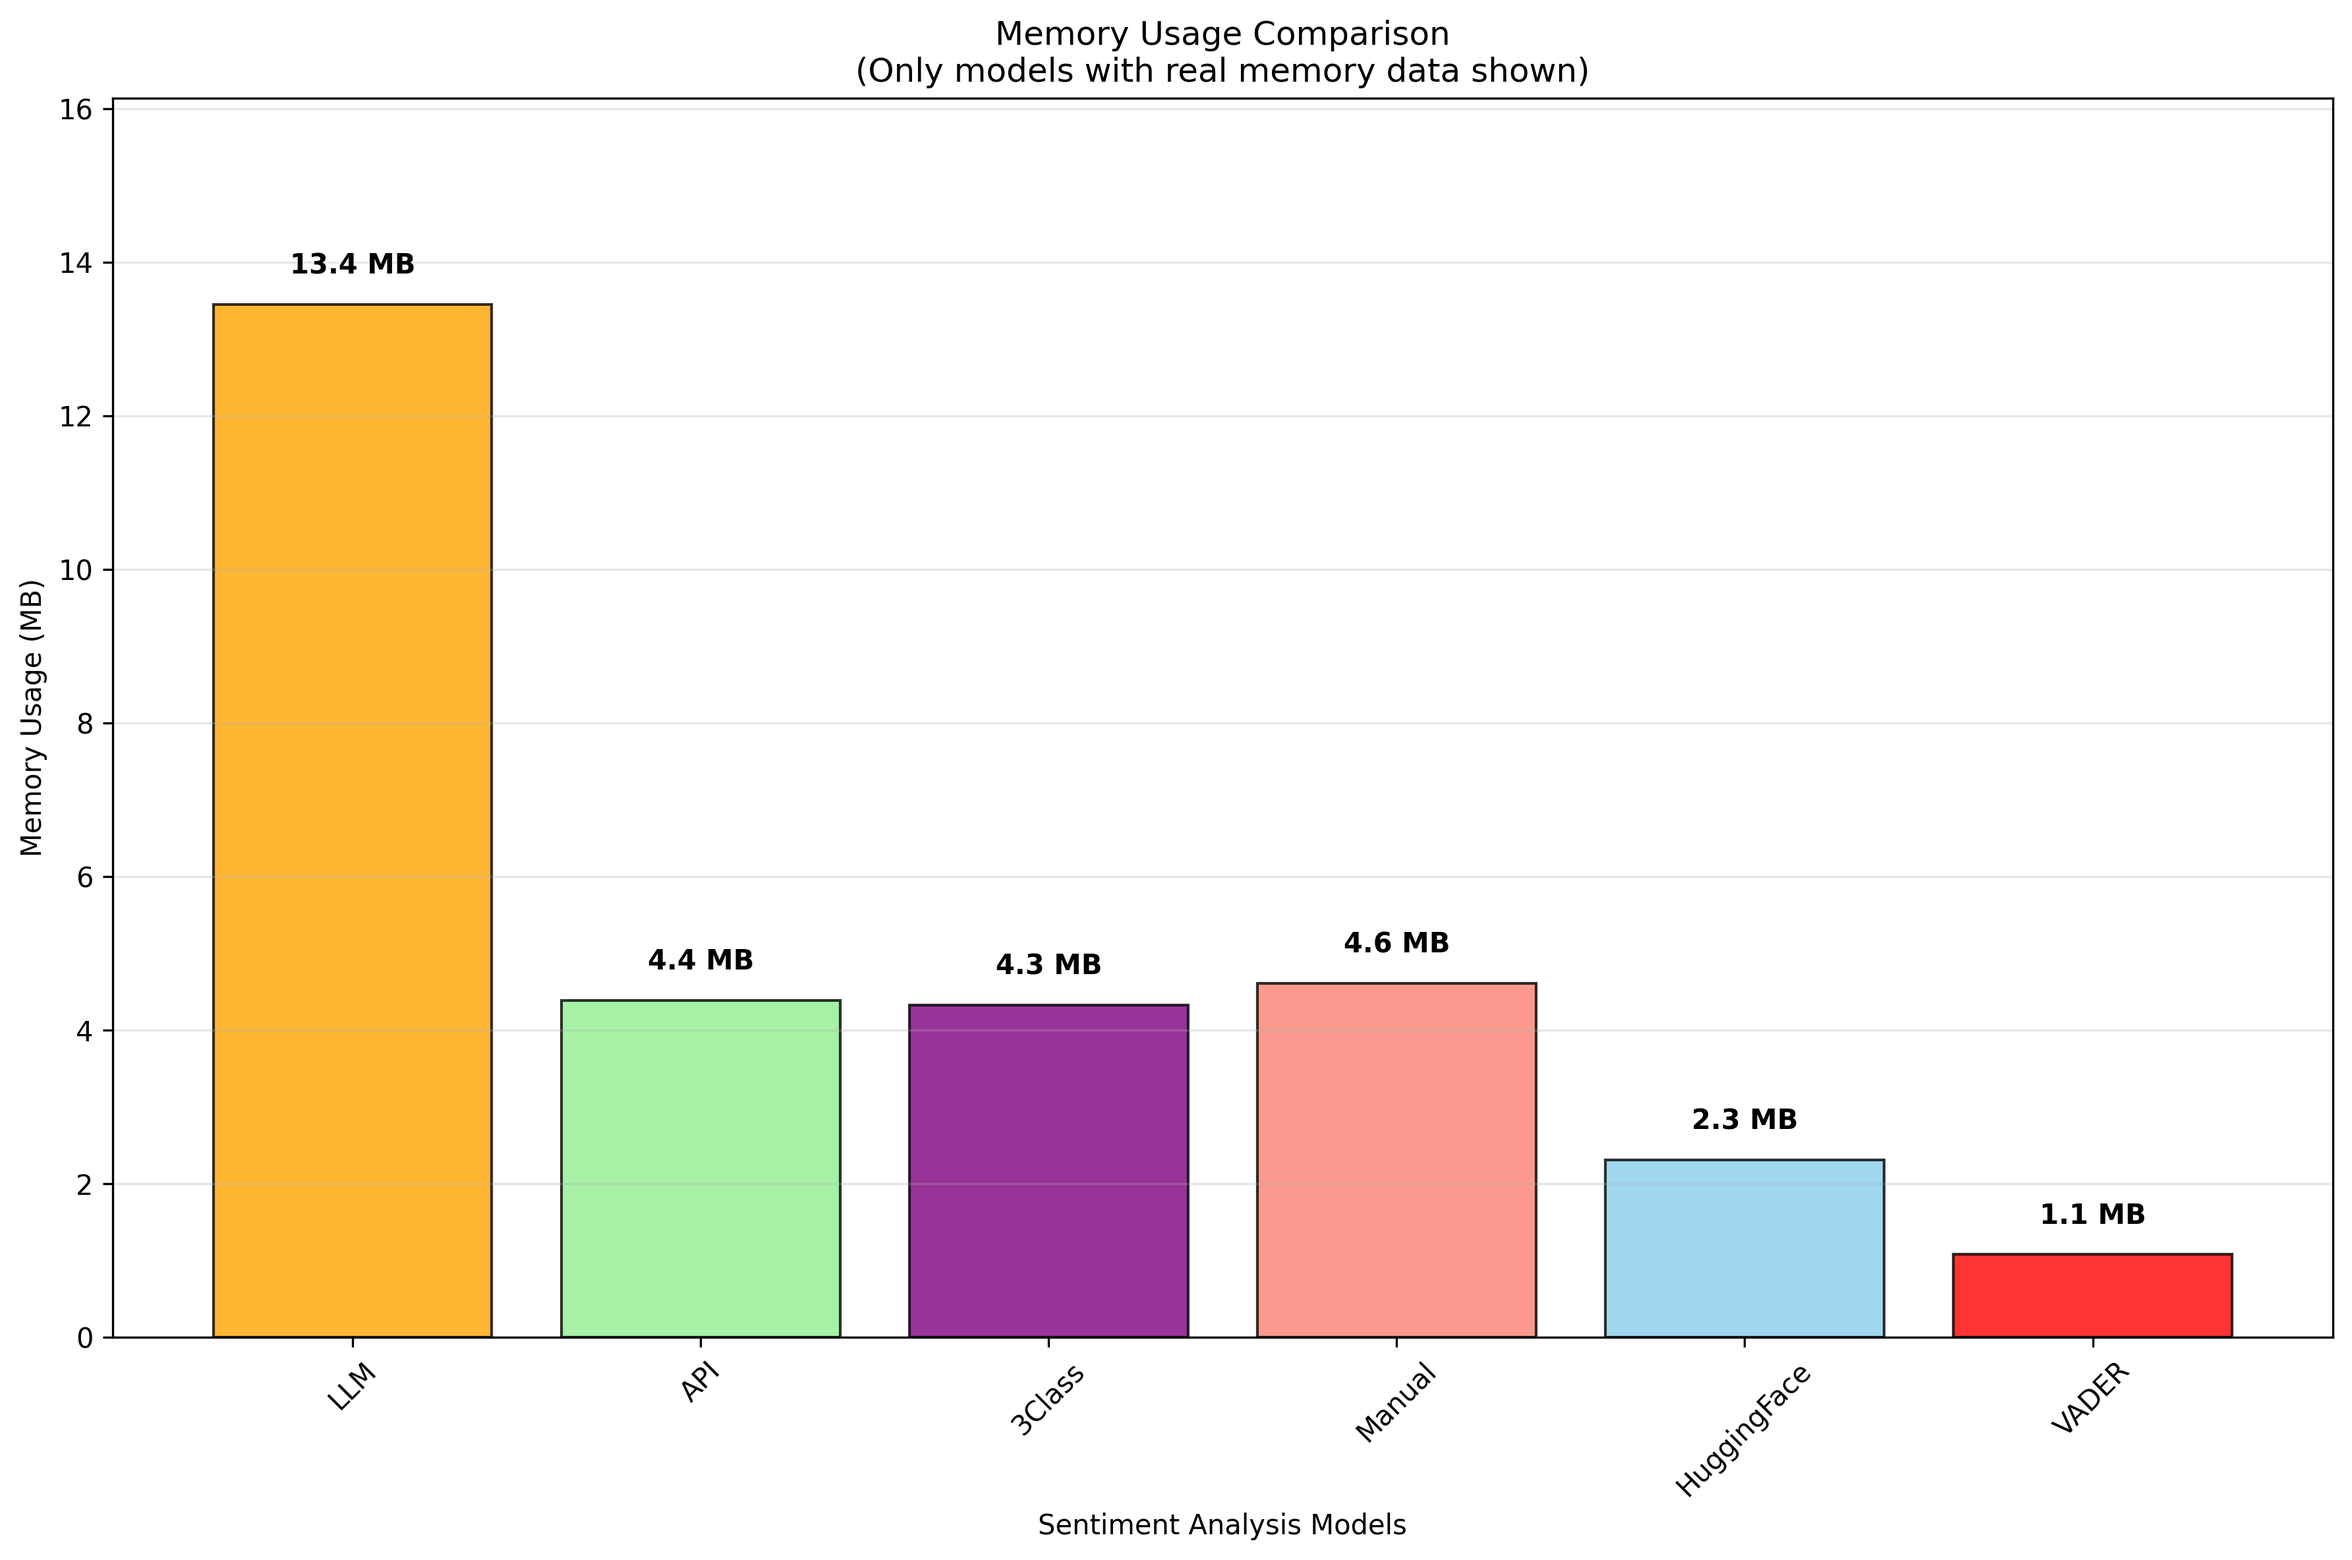
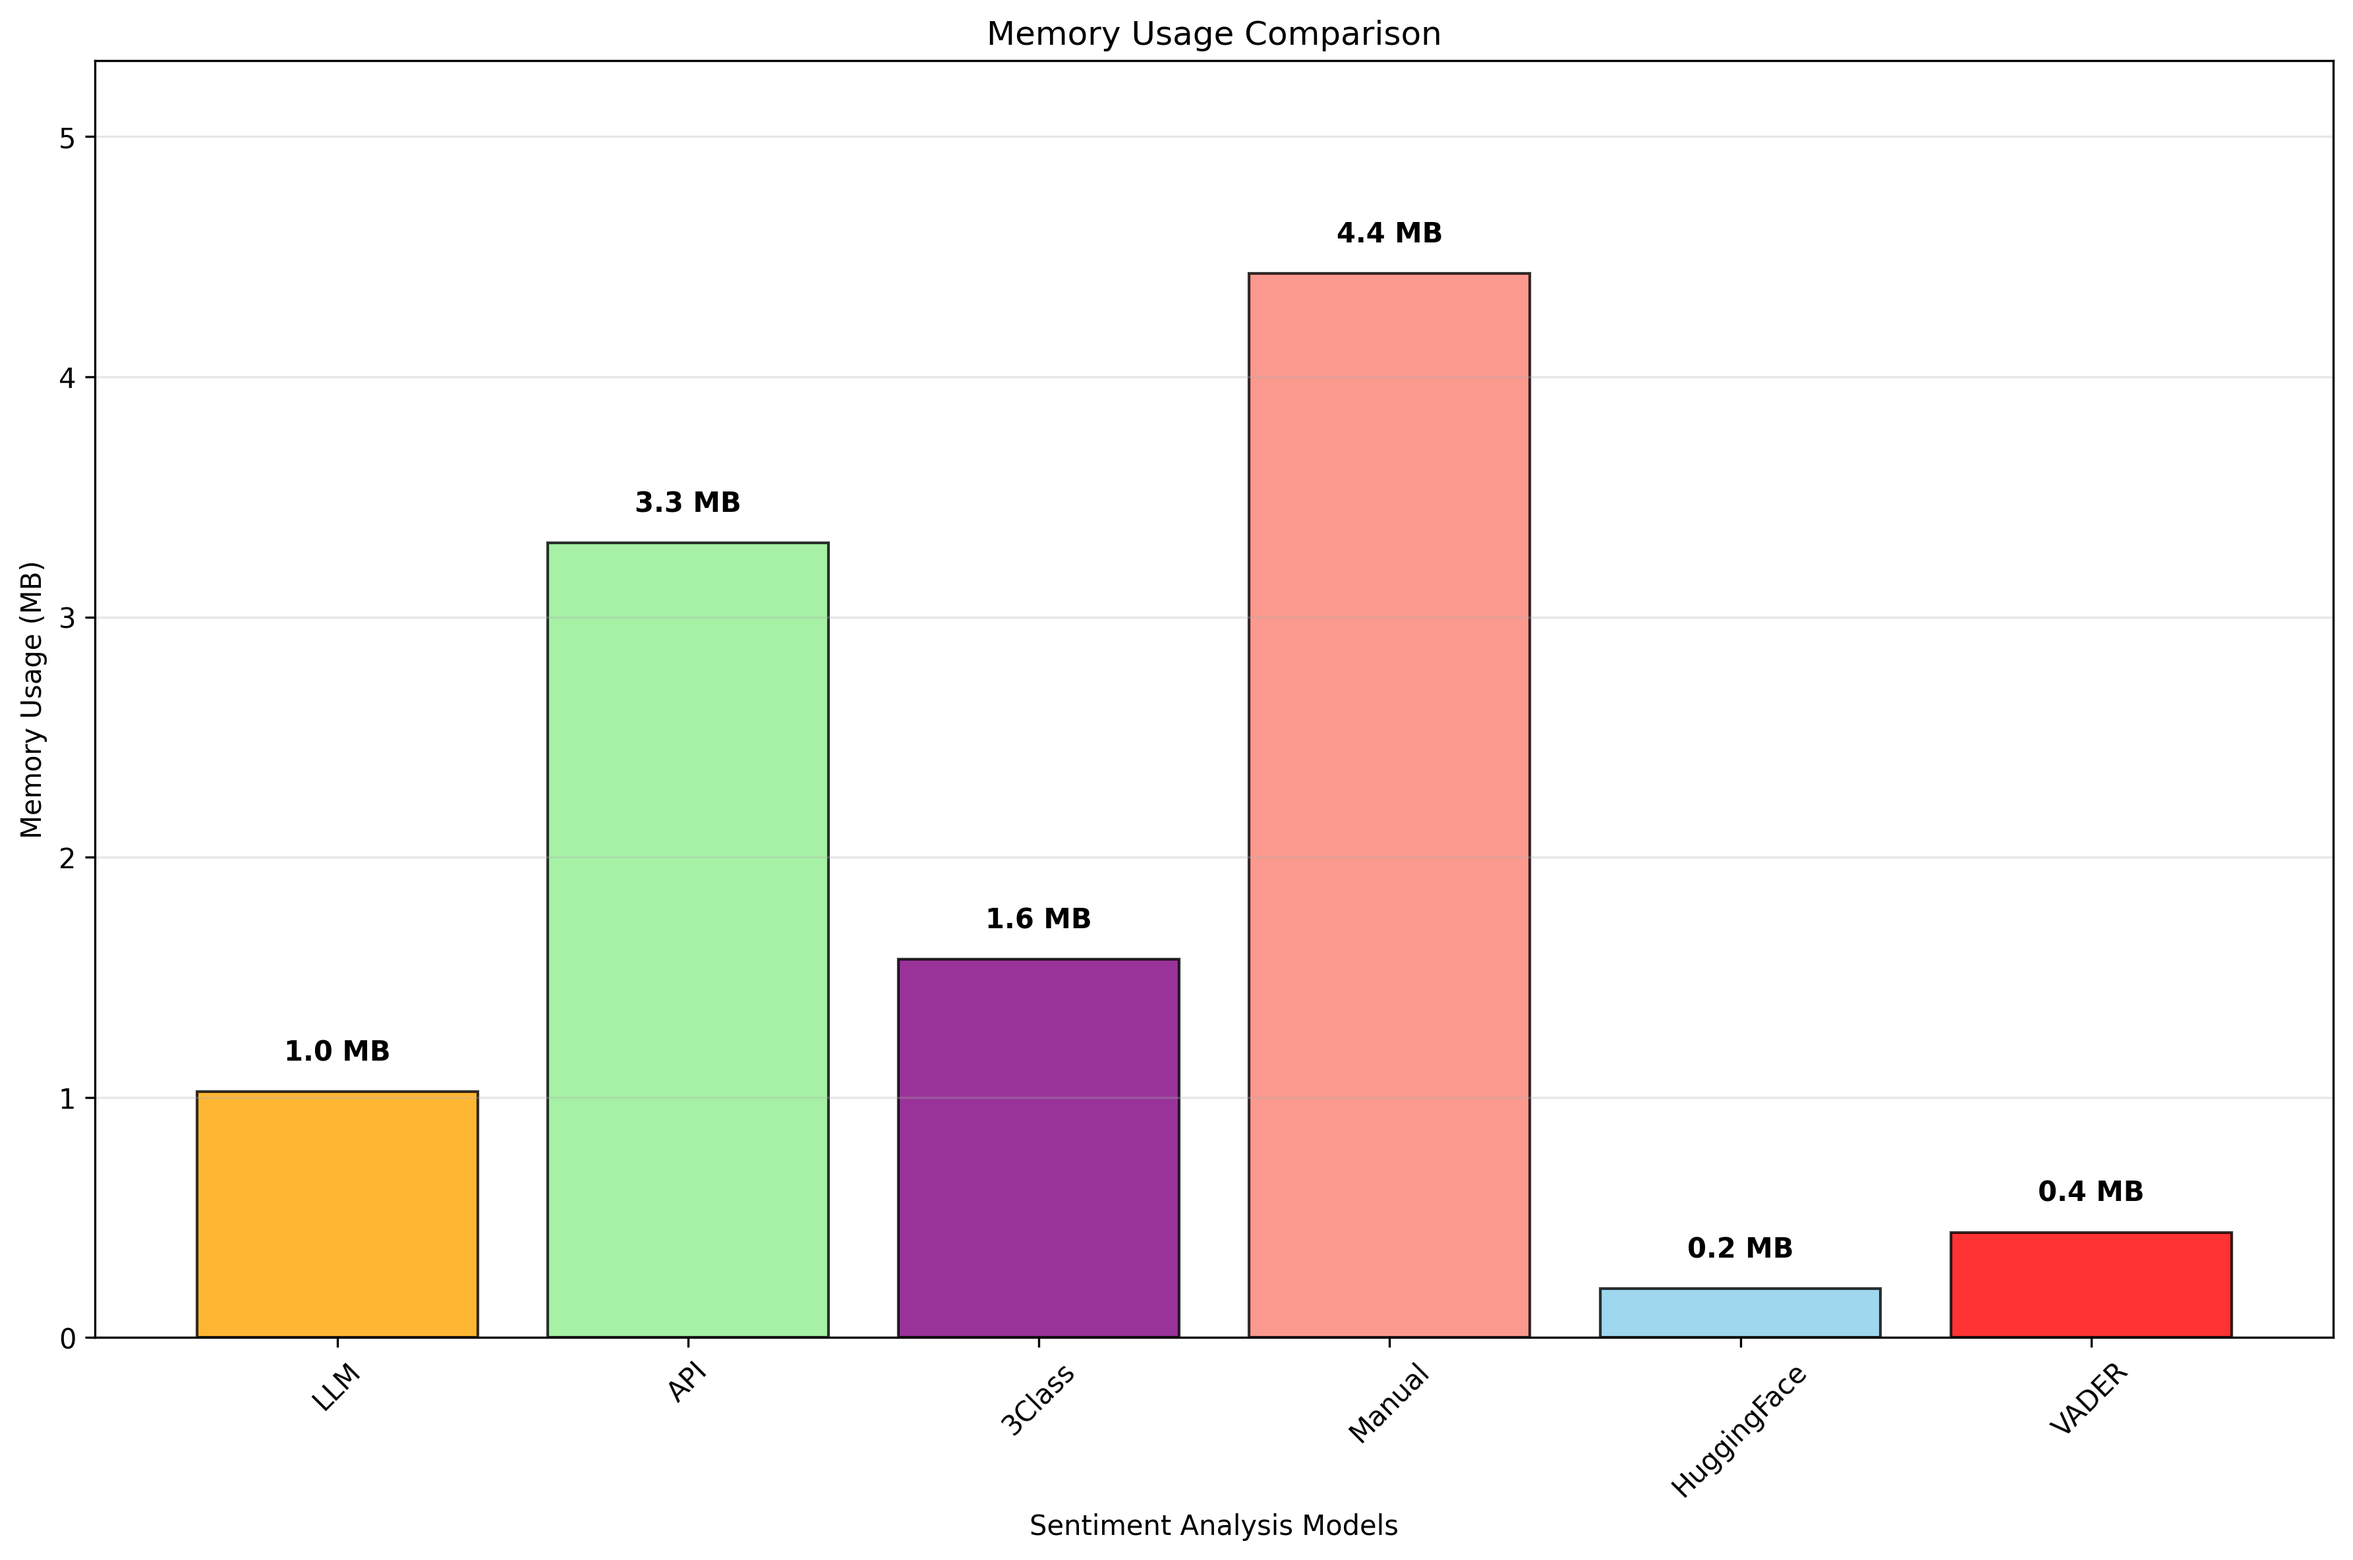
Save for report

diff --git a/main.py b/main.py
@@ -278,8 +278,11 @@ choice = get_user_choice()
 if choice == 1:
     # Single run
     print("\nRunning single analysis...")
+    start_time = time.time()
     if run_single_analysis():
-        print("\nSingle analysis completed successfully!")
+        total_time = time.time() - start_time
+        print(f"\nSingle analysis completed successfully!")
+        print(f"Total execution time: {total_time:.2f} seconds ({total_time/60:.2f} minutes)")
         print("Running visualization...")
         import visualize
         visualize.run_visualization("current_run")
@@ -289,18 +292,24 @@ if choice == 1:
 elif choice == 2:
     # Three runs
     print("\nRunning three analyses for averaging...")
+    start_time = time.time()
     successful_runs = 0
     
     for i in range(3):
         print(f"\n--- Run {i+1}/3 ---")
+        run_start = time.time()
         if run_single_analysis():
+            run_time = time.time() - run_start
             successful_runs += 1
-            print(f"Run {i+1} completed successfully")
+            print(f"Run {i+1} completed successfully in {run_time:.2f} seconds")
         else:
             print(f"Run {i+1} failed")
     
+    total_time = time.time() - start_time
     if successful_runs > 0:
         print(f"\nCompleted {successful_runs} successful runs")
+        print(f"Total execution time: {total_time:.2f} seconds ({total_time/60:.2f} minutes)")
+        print(f"Average time per run: {total_time/successful_runs:.2f} seconds")
         print("Running visualization...")
         import visualize
         visualize.run_visualization("average_run")

diff --git a/visualize.py b/visualize.py
@@ -154,11 +154,11 @@ def run_visualization(folder="current_run"):
     agreement_labels = list(agreement_counter.keys())
     agreement_values = list(agreement_counter.values())
 
-    plt.figure(figsize=(8, 6))
+    plt.figure(figsize=(10, 8))
     plt.pie(agreement_values, labels=agreement_labels, autopct='%1.1f%%', startangle=90)
-    plt.title('Model Agreement Analysis (6 Models)')
+    plt.title('Model Agreement Analysis (6 Models)', pad=20)
     plt.axis('equal')
-    plt.tight_layout()
+    plt.tight_layout(pad=2.0)
     save_graph('model_agreement.png', folder)
     plt.show()
 
@@ -280,7 +280,7 @@ def run_visualization(folder="current_run"):
 
         plt.xlabel('Sentiment Analysis Models')
         plt.ylabel('Memory Usage (MB)')
-        plt.title('Memory Usage Comparison\n(Only models with real memory data shown)')
+        plt.title('Memory Usage Comparison')
         plt.xticks(rotation=45)
         plt.ylim(0, y_limit)  # Set proper y-axis limits
         plt.grid(True, alpha=0.3, axis='y')
